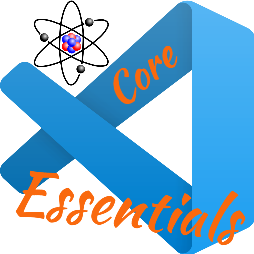
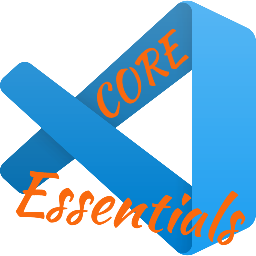
Image Fix

diff --git a/CHANGELOG.md b/CHANGELOG.md
@@ -7,6 +7,16 @@ and this project adheres to [Semantic Versioning](https://semver.org/spec/v2.0.0
 
 ## [Unreleased]
 
+## [0.3.1] - 2025-03-03 (Small Review)
+
+### Fixed
+
+* The extension image is fixed and updated, removing unnecessary references.
+
+### Changed
+
+* Purpose of "VSC Essentials Core"
+
 ## [0.3.0] - 2025-03-03
 
 ### Added
@@ -56,6 +66,7 @@ and this project adheres to [Semantic Versioning](https://semver.org/spec/v2.0.0
   * XML Tools, By Josh Johnson.
 
 [Unreleased]: https://github.com/Gydunhn/VSC-Essentials/tree/develop
+[0.3.1]: https://github.com/Gydunhn/VSC-Essentials/releases/tag/0.3.1
 [0.3.0]: https://github.com/Gydunhn/VSC-Essentials/releases/tag/0.3.0
 [0.2.1]: https://github.com/Gydunhn/VSC-Essentials/releases/tag/0.2.1
 [0.2.0]: https://github.com/Gydunhn/VSC-Essentials/releases/tag/0.2.0

diff --git a/README.md b/README.md
@@ -10,8 +10,6 @@ This **Detailed** version of the extension pack is for a series of very specific
 
 ## Reasons
 
-The "Original & Complete" version of [VSC Essentials] extension pack was made to automate and standardize the setup phase of the development environment for Visual Studio Code, to have the same set of extensions, use the same id settings and file format everyone works on together.
-
 New Purpose of "VSC Essentials Core"
 
 We have given a new purpose to the "VSC Essentials Core" extension to better align with the hierarchy of extension packages used by our team in Visual Studio Code (VSCode) development.
